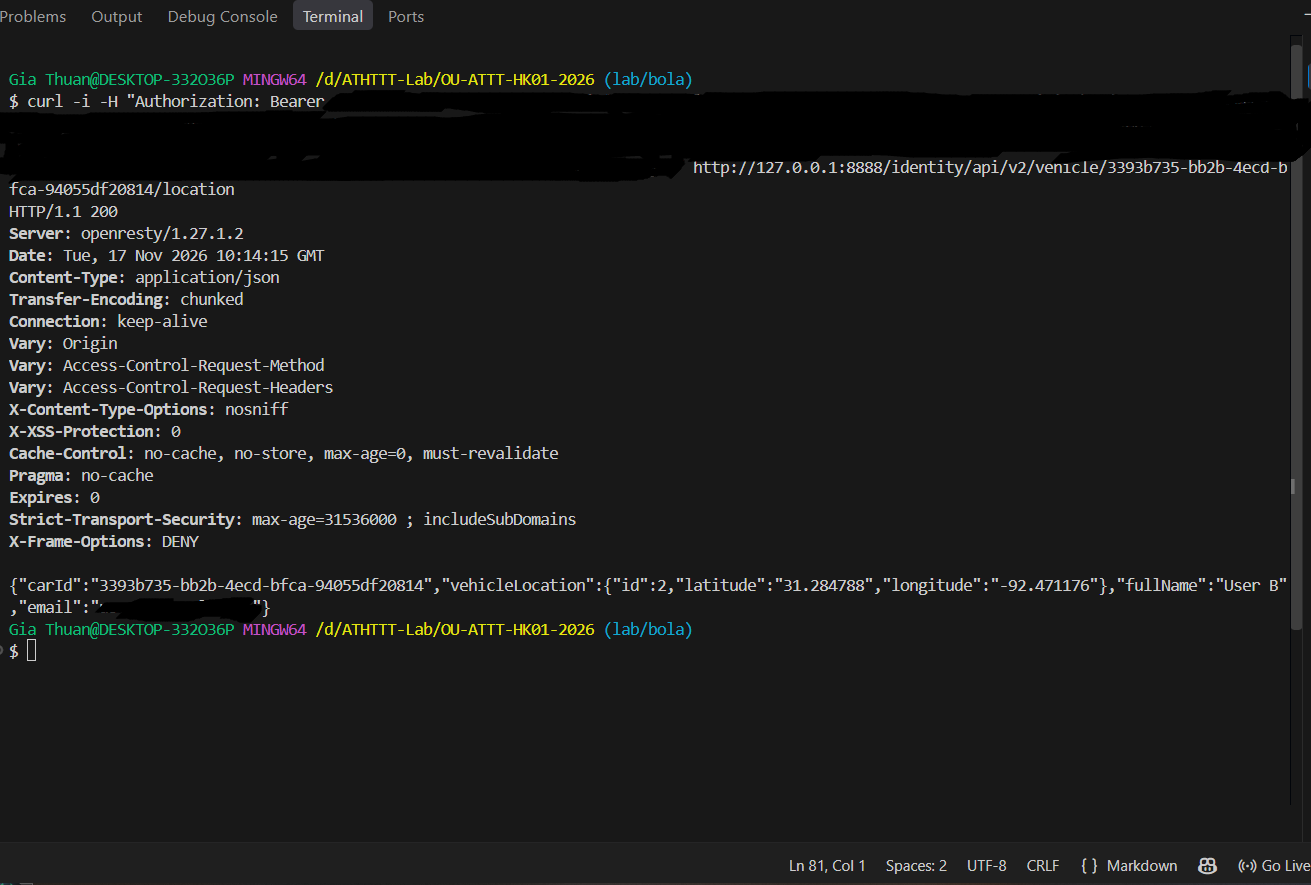
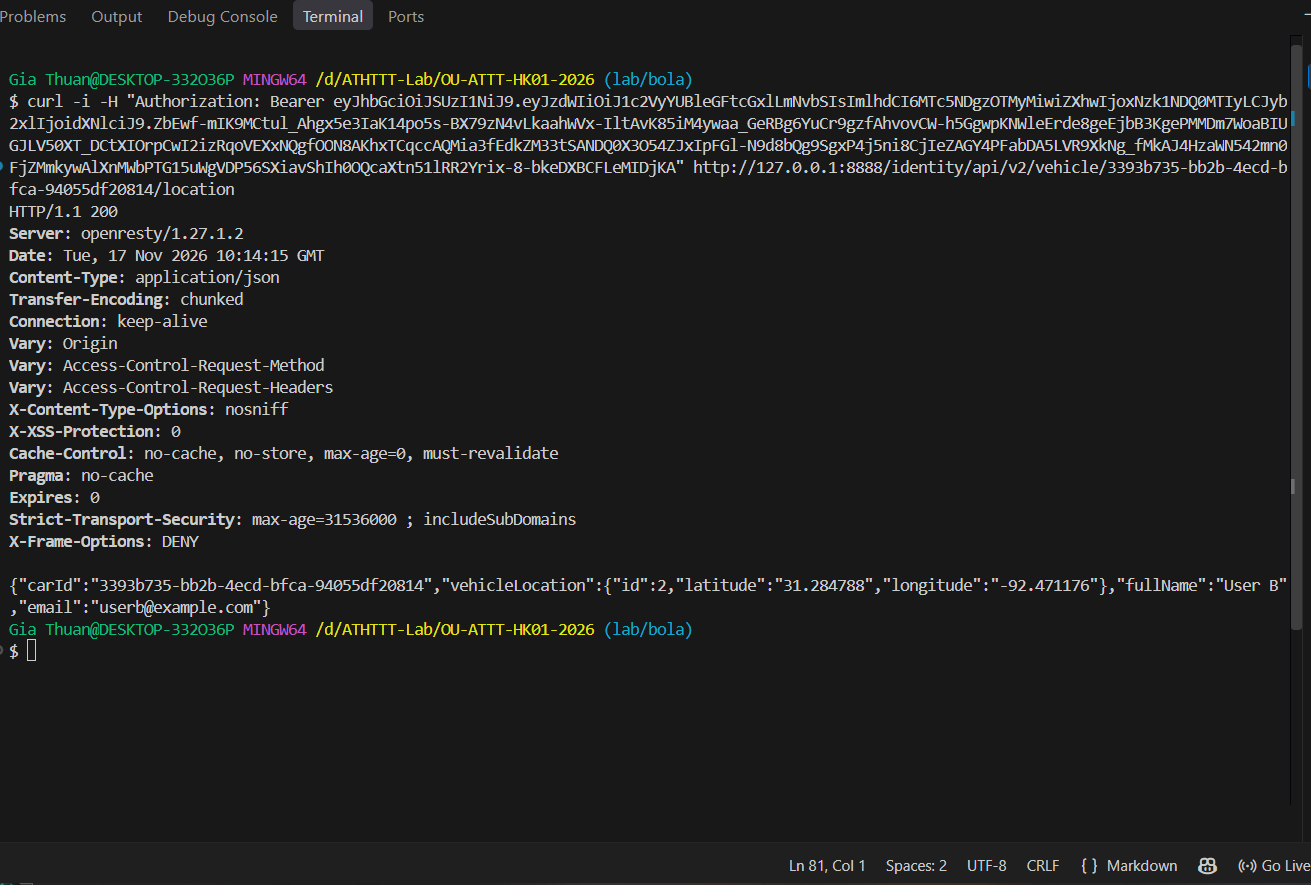
Update REPORT.md and 4 pictures (#23)

Changed region(s): [[0.0, 0.0915, 1.0, 0.2136], [0.061, 0.6712, 0.2136, 0.7017]]

diff --git a/labs/01-bola/REPORT.md b/labs/01-bola/REPORT.md
@@ -1,44 +1,74 @@
-# LAB-01 — Báo cáo BOLA
+# LAB-01: Broken Object Level Authorization (BOLA)
+
+> Khảo sát, khai thác và kiểm thử tự động lỗ hổng truy cập trái phép thông tin vị trí phương tiện trên OWASP crAPI
+
+| Thành phần | Thông tin chi tiết |
+|---|---|
+| **Danh mục OWASP** | API1:2023 — Broken Object Level Authorization (BOLA) |
+| **Thử thách crAPI** | Challenge #1 — Truy cập trái phép thông tin/vị trí phương tiện của người dùng khác |
+| **Người thực hiện** | Gia Thuận |
+| **Phiên bản / Nhánh** | Git commit `700f03d12a392d9e408260b4beae72ed02a4a1a4` (nhánh `lab/bola`) |
+
+---
 
 ## 1. Mục tiêu và phạm vi
 
-- **OWASP API Security category:** API1:2023 — Broken Object Level Authorization (BOLA).
-- **crAPI challenge:** Challenge #1 — Truy cập trái phép thông tin/vị trí phương tiện của người dùng khác thông qua định danh đối tượng (`vehicle_id`).
-- **Tác động cần kiểm chứng:** Kiểm chứng khả năng một người dùng đã xác thực hợp lệ (User A) có thể truy vấn và đọc dữ liệu tọa độ GPS cùng thông tin cá nhân gắn với phương tiện thuộc sở hữu của người dùng khác (User B) bằng cách thay đổi tham số `{vehicle_id}` trên endpoint quản lý vị trí xe trong môi trường lab cục bộ.
+- **OWASP API Security:** API1:2023 — Broken Object Level Authorization (BOLA).
+- **crAPI Challenge:** Challenge #1 — Truy cập trái phép thông tin và tọa độ vị trí phương tiện của người dùng khác thông qua định danh đối tượng (`vehicle_id`).
+- **Mục tiêu:** Kiểm chứng khả năng một người dùng đã xác thực hợp lệ (User A) có thể trực tiếp gọi API truy vấn tọa độ vị trí GPS cùng thông tin cá nhân gắn với phương tiện thuộc sở hữu của người dùng khác (User B) bằng cách thay đổi tham số đường dẫn `{vehicle_id}` trong môi trường lab cục bộ.
+- **Giới hạn:** Thực nghiệm trên 02 tài khoản thử nghiệm độc lập (User A và User B) trong môi trường crAPI local; phạm vi tập trung vào hành vi đọc trái phép dữ liệu (unauthorized read) trên endpoint vị trí phương tiện, chưa kiểm thử các thao tác ghi/điều khiển xe hoặc hệ thống sau khi áp dụng bản vá.
 
 ## 2. Lý thuyết
 
-- **Khái niệm:** Broken Object Level Authorization (BOLA) là lỗ hổng xảy ra khi một API nhận định danh đối tượng (Object ID) do phía client truyền vào (qua path parameter, query string hoặc request body) nhưng không kiểm tra xem người dùng đang thực hiện yêu cầu có quyền sở hữu hoặc quyền truy cập đối với đối tượng cụ thể đó hay không.
+Broken Object Level Authorization (BOLA) là lỗ hổng kiểm soát truy cập xảy ra khi một API tiếp nhận định danh đối tượng (Object ID) do phía client truyền vào (thông qua tham số đường dẫn, chuỗi truy vấn hoặc nội dung yêu cầu) nhưng không kiểm tra xem người dùng đang thực hiện yêu cầu có quyền sở hữu hoặc quyền truy cập đối với đối tượng cụ thể đó hay không.
+
+Trong OWASP API Security Top 10:2023, lỗ hổng này được xếp ở vị trí số một (**API1:2023**). Việc người dùng gửi kèm một mã xác thực (JWT token) hợp lệ chỉ chứng minh danh tính của người gọi (Authentication), hoàn toàn không đồng nghĩa với việc người đó được phép truy xuất mọi bản ghi trong hệ thống (Authorization).
+
 - **Nguyên nhân thường gặp:**
-  - Lập trình viên chỉ kiểm tra bước xác thực (Authentication — xác minh JWT token hoặc session hợp lệ) mà bỏ qua bước kiểm tra phân quyền ở mức đối tượng (Object-level Authorization).
-  - Truy vấn trực tiếp bản ghi trong cơ sở dữ liệu chỉ dựa trên `object_id` do client cung cấp mà không ràng buộc thêm điều kiện `owner_id = current_user_id`.
-  - Việc sử dụng định danh dạng UUID nhưng để lộ công khai các UUID này ở những API khác (như bảng tin Community) tạo điều kiện cho kẻ tấn công thu thập định danh mục tiêu.
-- **Biện pháp phòng chống:**
-  - Thực thi kiểm tra quyền sở hữu ở tầng nghiệp vụ (Service/Controller) cho mọi thao tác đọc/ghi/xóa đối tượng, đối chiếu `owner_id` của tài nguyên với `user_id` được trích xuất từ JWT đã xác thực ở phía server.
-  - Truy vấn dữ liệu theo cặp điều kiện `(object_id, owner_id)` ngay tại tầng truy xuất dữ liệu (Repository/Database).
-  - Tránh trả về định danh nội bộ nhạy cảm của tài nguyên (như `vehicleid`) trong các API công khai không cần thiết.
+  - Lập trình viên chỉ kiểm tra trạng thái đăng nhập của phiên làm việc mà bỏ qua bước đối chiếu quyền sở hữu tài nguyên ở tầng nghiệp vụ (`owner_id == current_user_id`).
+  - Truy vấn trực tiếp cơ sở dữ liệu chỉ dựa trên `object_id` do client cung cấp mà không ràng buộc điều kiện định danh chủ sở hữu.
+  - Các API công khai vô tình trả về định danh nội bộ của đối tượng (như `vehicleid`), tạo điều kiện cho kẻ tấn công thu thập chuỗi UUID mục tiêu.
+- **Tác động và nguyên tắc phòng chống:** Lỗ hổng BOLA dẫn đến rò rỉ dữ liệu nhạy cảm của người dùng khác (vị trí địa lý theo thời gian thực, họ tên, địa chỉ email). Để phòng chống, máy chủ bắt buộc phải trích xuất định danh người dùng từ phiên đã xác thực ở phía server và ràng buộc quyền sở hữu trên mọi thao tác truy xuất đối tượng.
 
 ## 3. Môi trường thực nghiệm
 
-- **Git commit hoặc phiên bản crAPI:** `700f03d12a392d9e408260b4beae72ed02a4a1a4` (nhánh làm việc: `lab/bola`).
-- **Công cụ, phiên bản:**
-  - Hệ điều hành & ảo hóa: Windows 10 (64-bit), Docker Desktop (WSL 2 backend), chế độ `CRAPI_MINIMAL=1` (`crapi-web`, `crapi-workshop`, `mailhog`, `mongodb`, `postgresdb`).
-  - Trình duyệt & CLI: Google Chrome DevTools (tab Network), Git Bash (`curl`).
-  - Môi trường kiểm thử tự động: `Python 3.12.3`, `pytest 9.2.0`, `httpx 0.28.1`, `python-dotenv 1.2.4`.
-- **Tài khoản thử nghiệm/điều kiện ban đầu (không ghi credentials):**
-  - **User A (tài khoản kiểm thử truy vấn chéo):** Đăng ký cục bộ trên crAPI, kích hoạt thành công 01 phương tiện riêng qua mã VIN và Pincode nhận từ MailHog (UUID xe của User A: `22a84d75-033d-46b6-9d9f-8a92cf98ffb6`).
-  - **User B (tài khoản sở hữu tài nguyên mục tiêu):** Đăng ký độc lập cục bộ trên crAPI, kích hoạt 01 phương tiện riêng qua MailHog (UUID xe của User B: `3393b735-bb2b-4ecd-bfca-94055df20814`) và đăng 01 bài viết công khai (`"Test post B"`) trên mục Community.
+Toàn bộ quá trình khảo sát, kiểm thử thủ công và chạy kiểm thử tự động được thực hiện trên hạ tầng cô lập cục bộ với các thông số ghi nhận trong bảng dưới đây:
+
+| Thành phần | Cấu hình / Kết quả quan sát |
+|---|---|
+| **Ứng dụng** | OWASP crAPI (chế độ tối giản `CRAPI_MINIMAL=1`: `crapi-web`, `crapi-workshop`, `mailhog`, `mongodb`, `postgresdb`) |
+| **URL cục bộ** | `http://127.0.0.1:8888` (Web/API) và `http://127.0.0.1:8025` (MailHog) |
+| **Git commit crAPI** | `700f03d12a392d9e408260b4beae72ed02a4a1a4` (nhánh làm việc: `lab/bola`) |
+| **Hệ điều hành & Ảo hóa** | Windows 10 (64-bit), Docker Desktop (WSL 2 backend) |
+| **Công cụ khảo sát** | Google Chrome DevTools (tab Network — Fetch/XHR), Git Bash (`curl`) |
+| **Kiểm thử tự động** | Python 3.12.3, `pytest` 9.2.0, `httpx` 0.28.1, `python-dotenv` 1.2.4 |
+| **Tài khoản User A** | Tài khoản thử nghiệm truy vấn chéo; đã kích hoạt 01 phương tiện riêng qua MailHog (UUID xe: `22a84d75-033d-46b6-9d9f-8a92cf98ffb6`) |
+| **Tài khoản User B** | Tài khoản chủ sở hữu mục tiêu; đã kích hoạt 01 phương tiện riêng qua MailHog (UUID xe: `3393b735-bb2b-4ecd-bfca-94055df20814`) và đăng 01 bài viết công khai (`"Test post B"`) trên Community |
 
 ## 4. Khảo sát chức năng bình thường
 
-- **Mục đích nghiệp vụ của API:** Cho phép người dùng đã đăng nhập xem danh sách phương tiện thuộc sở hữu của mình và cập nhật/truy vấn tọa độ vị trí GPS hiện tại của phương tiện trên bản đồ Dashboard.
-- **Endpoint và method liên quan:**
-  - `GET /identity/api/v2/vehicle/vehicles` — Lấy danh sách phương tiện gắn với tài khoản đang đăng nhập.
-  - `GET /identity/api/v2/vehicle/{vehicle_id}/location` — Truy vấn tọa độ GPS (`latitude`, `longitude`) và thông tin định danh của phương tiện theo `{vehicle_id}`.
-- **Cơ chế xác thực & tham số đầu vào:**
-  - Client gửi kèm JWT access token trong HTTP Request Header: `Authorization: Bearer <JWT_TOKEN>`.
-  - Tham số đường dẫn (Path parameter): `{vehicle_id}` là chuỗi định danh UUID của phương tiện (ví dụ với User A: `22a84d75-033d-46b6-9d9f-8a92cf98ffb6`).
-- **Request/response hợp lệ:** Response hợp lệ (HTTP `200 OK`) khi User A truy vấn xe của chính mình:
+### 4.1. Mục đích nghiệp vụ và các endpoint liên quan
+
+Chức năng quản lý phương tiện trên crAPI cho phép người dùng đã đăng nhập xem danh sách xe thuộc sở hữu cá nhân và truy vấn tọa độ GPS hiện tại của xe trên bản đồ Dashboard. Các endpoint chính tham gia vào luồng nghiệp vụ gồm:
+
+- `GET /identity/api/v2/vehicle/vehicles` — Lấy danh sách phương tiện gắn với tài khoản đang đăng nhập.
+- `GET /identity/api/v2/vehicle/{vehicle_id}/location` — Truy vấn tọa độ GPS (`latitude`, `longitude`) và thông tin chủ sở hữu của phương tiện theo định danh UUID `{vehicle_id}`.
+- `GET /community/api/v2/community/posts/recent` — Lấy danh sách bài viết công khai trên diễn đàn Community (endpoint gián tiếp làm lộ định danh xe của tác giả bài viết).
+
+Client gửi kèm mã thông báo xác thực trong HTTP Request Header theo chuẩn `Authorization: Bearer <JWT_TOKEN>` cùng tham số đường dẫn `{vehicle_id}`.
+
+### 4.2. Truy vấn thông tin phương tiện hợp lệ của chính chủ (User A)
+
+Khi User A truy cập Dashboard và tải vị trí phương tiện thuộc sở hữu của chính mình, trình duyệt gửi yêu cầu hợp lệ tới máy chủ:
+
+```http
+GET /identity/api/v2/vehicle/22a84d75-033d-46b6-9d9f-8a92cf98ffb6/location HTTP/1.1
+Host: 127.0.0.1:8888
+Authorization: Bearer <REDACTED_TOKEN_USER_A>
+```
+
+Phản hồi thực tế từ máy chủ: **`HTTP/1.1 200 OK`**.
+
 ```json
 {
   "carId": "22a84d75-033d-46b6-9d9f-8a92cf98ffb6",
@@ -51,76 +81,146 @@
   "email": "<REDACTED_EMAIL>"
 }
 ```
-## 5. Phương pháp kiểm thử
 
-1. **Các bước khởi tạo dữ liệu:**
-   - Khởi động môi trường crAPI cục bộ tại `http://127.0.0.1:8888` và MailHog tại `http://127.0.0.1:8025`.
-   - Tạo lần lượt 02 tài khoản độc lập (User A và User B), lấy cặp mã VIN và Pincode từ MailHog để kích hoạt phương tiện riêng cho từng tài khoản.
-   - Sử dụng phiên đăng nhập của User B đăng một bài viết mới trên diễn đàn **Community** để tạo dữ liệu công khai.
-2. **Các bước kiểm thử có kiểm soát trong Lab:**
-   - Đăng nhập bằng **User A**, mở Chrome DevTools $\rightarrow$ **Network** $\rightarrow$ **Fetch/XHR** và truy cập mục **Community**.
-   - Quan sát gói tin `GET /community/api/v2/community/posts/recent`, ghi nhận chuỗi `vehicleid` của User B (`3393b735-bb2b-4ecd-bfca-94055df20814`) bị trả về công khai trong đối tượng `author` của bài viết.
-   - Sử dụng `curl` gửi yêu cầu `GET /identity/api/v2/vehicle/3393b735-bb2b-4ecd-bfca-94055df20814/location` với header `Authorization: Bearer <TOKEN_CUA_USER_A>`.
-3. **Dấu hiệu để xác nhận hành vi sai quyền/bất thường:**
-   - Về mặt chính sách bảo mật chuẩn, máy chủ phải từ chối yêu cầu truy cập chéo đối tượng bằng mã trạng thái HTTP `401`, `403` hoặc `404`.
-   - Dấu hiệu xác nhận tồn tại lỗ hổng BOLA: Máy chủ trả về mã **`HTTP/1.1 200`** cùng nội dung JSON chứa tọa độ GPS, tên và địa chỉ email của User B cho phiên của User A.
-4. **Cách chạy lại bằng test Python:**
-   - Đảm bảo stack Docker của crAPI đang hoạt động ở trạng thái `healthy`, cài đặt thư viện từ `requirements.txt` và chạy lệnh: `pytest tests/security/test_bola.py -v`.
+### 4.3. Chính sách phân quyền kỳ vọng
 
-## 6. Bằng chứng
+Theo nguyên tắc thiết kế bảo mật chuẩn, endpoint `/identity/api/v2/vehicle/{vehicle_id}/location` chỉ được phép trả về dữ liệu khi `{vehicle_id}` thuộc quyền sở hữu của tài khoản tương ứng với JWT token trong header `Authorization`. Mọi yêu cầu truy vấn tới `{vehicle_id}` của người dùng khác bắt buộc phải bị từ chối bằng mã trạng thái HTTP `401`, `403` hoặc `404`.
 
-Toàn bộ ảnh bằng chứng đã được làm sạch (che kín chuỗi JWT token và địa chỉ email) và lưu trong thư mục `labs/01-bola/evidence/`:
+## 5. Phương pháp kiểm thử: TC-01
 
-1. **[`evidence/01-community-vehicleid-exposure.png`](evidence/01-community-vehicleid-exposure.png):** Kết quả response từ endpoint `GET /community/api/v2/community/posts/recent` khi đăng nhập bằng User A, cho thấy API bảng tin công khai trả về trực tiếp trường `"vehicleid": "3393b735-bb2b-4ecd-bfca-94055df20814"` trong thông tin tác giả bài viết của User B.
-2. **[`evidence/02-bola-unauthorized-vehicle-read.png`](evidence/02-bola-unauthorized-vehicle-read.png):** Kết quả kiểm chứng bằng `curl` khi gửi yêu cầu `GET /identity/api/v2/vehicle/3393b735-bb2b-4ecd-bfca-94055df20814/location` kèm token xác thực của User A; máy chủ phản hồi mã `HTTP/1.1 200` và trả về đầy đủ dữ liệu tọa độ GPS (`latitude`, `longitude`), `fullName` và `email` của User B.
+### Bước 1: Khởi tạo tài khoản thử nghiệm và dữ liệu ban đầu
 
-## 7. Phân tích nguyên nhân
+- Khởi động stack Docker crAPI cục bộ tại `http://127.0.0.1:8888` và hộp thư thử nghiệm MailHog tại `http://127.0.0.1:8025`.
+- Đăng ký lần lượt 02 tài khoản độc lập (**User A** và **User B**), truy cập MailHog lấy cặp mã VIN và Pincode để kích hoạt phương tiện riêng cho từng tài khoản.
+- Sử dụng phiên đăng nhập của **User B** đăng một bài viết công khai với nội dung `"Test post B"` trên diễn đàn **Community**.
 
-- **Điểm kiểm soát bảo mật bị thiếu/sai:**
-  - Tại endpoint `GET /identity/api/v2/vehicle/{vehicle_id}/location`, dịch vụ `identity-service` chỉ xác thực chữ ký và thời hạn của JWT token (kiểm tra người gọi đã đăng nhập hay chưa) mà hoàn toàn không đối chiếu quyền sở hữu giữa `user_id` trong JWT với chủ sở hữu của `{vehicle_id}` được truyền trên URL.
-  - Đồng thời, endpoint `GET /community/api/v2/community/posts/recent` của `community-service` trả về trường định danh `vehicleid` của tác giả bài viết ra giao diện công khai, giúp bất kỳ người dùng nào cũng có thể thu thập được định danh xe của người khác.
-- **Lớp cần khắc phục (API/Service/Database):**
-  - **Tầng Service / Controller (`identity-service`):** Bắt buộc bổ sung logic xác minh quyền sở hữu tài nguyên trước khi trả dữ liệu vị trí phương tiện.
-  - **Tầng Database / Repository:** Truy vấn thông tin phương tiện theo điều kiện kết hợp cả định danh xe và định danh chủ sở hữu (`WHERE uuid = :vehicle_id AND owner_id = :current_user_id`).
-  - **Tầng DTO / Serializer (`community-service`):** Loại bỏ trường `vehicleid` khỏi payload phản hồi của API bảng tin công khai.
-- **Phạm vi tác động đã chứng minh:**
-  - Người dùng đã xác thực bất kỳ có thể đọc trái phép tọa độ vị trí GPS (`latitude`, `longitude`), tên hiển thị (`fullName`) và địa chỉ `email` gắn với phương tiện của người dùng khác.
-- **Những điều chưa chứng minh:**
-  - Chưa kiểm thử các thao tác ghi/sửa/xóa trái phép trên tài nguyên phương tiện của người khác (như thay đổi trạng thái hoặc lệnh điều khiển xe) do phạm vi Lab 01 giới hạn ở luồng truy vấn đọc thông tin vị trí xe.
+**Mục đích:** Thiết lập hai chủ thể người dùng tách biệt với tài nguyên phương tiện độc lập và tạo điểm tiếp xúc dữ liệu công khai trên hệ thống.
 
-## 8. Biện pháp khắc phục
+**Hình 1: Giao diện Dashboard crAPI xác nhận tài khoản thử nghiệm đã kích hoạt phương tiện thành công**
 
-- **Cách sửa được đề xuất:**
-  1. **Kiểm tra quyền sở hữu ở tầng nghiệp vụ (`identity-service`):** Khi xử lý yêu cầu `GET /identity/api/v2/vehicle/{vehicle_id}/location`, trích xuất định danh người dùng hiện tại (`currentUserId`) từ `SecurityContext` / JWT đã xác thực, sau đó kiểm tra bản ghi `Vehicle` tương ứng với `vehicle_id` có thuộc về `currentUserId` hay không. Nếu không khớp, trả về ngay mã `403 Forbidden` (hoặc `404 Not Found` để tránh lộ sự tồn tại của tài nguyên).
-  2. **Ràng buộc truy vấn ở tầng dữ liệu:** Thay thế các truy vấn chỉ tìm theo `vehicle_id` bằng truy vấn gắn liền chủ sở hữu (ví dụ `findByUuidAndOwnerId(vehicleId, currentUserId)`).
-  3. **Giảm thiểu dữ liệu lộ lọt (Data Minimization) ở `community-service`:** Lược bỏ trường `vehicleid` khỏi đối tượng `author` khi tuần tự hóa dữ liệu bài viết trả về cho endpoint `/community/api/v2/community/posts/recent`.
-- **Kiểm thử lại sau sửa:**
-  - Sau khi áp dụng bản vá và khởi động lại dịch vụ `identity-service`, chạy lại lệnh `pytest tests/security/test_bola.py -v`.
-  - Bản vá đạt yêu cầu khi endpoint `GET /identity/api/v2/vehicle/{vehicle_id_B}/location` (gọi bằng token của User A) trả về mã HTTP `403` hoặc `404`, không chứa dữ liệu vị trí/email của User B, và bài kiểm thử tự động chuyển từ `FAILED` sang `PASSED`.
+![Giao diện Dashboard crAPI xác nhận tài khoản thử nghiệm đã kích hoạt phương tiện thành công](evidence/00-user-setup-dashboard.png)
 
-## 9. Automated security test
+### Bước 2: Khảo sát luồng công khai và thu thập định danh đối tượng
 
-- **File Python test:** `tests/security/test_bola.py` (hàm `test_user_cannot_read_another_users_vehicle`, sử dụng fixture `api_client` trong `tests/conftest.py` trỏ tới `http://127.0.0.1:8888`).
+- Đăng nhập bằng tài khoản **User A**, mở Chrome DevTools → tab **Network** → bộ lọc **Fetch/XHR** và truy cập mục **Community**.
+- Quan sát gói tin `GET /community/api/v2/community/posts/recent`, ghi nhận trường `vehicleid` của User B (`3393b735-bb2b-4ecd-bfca-94055df20814`) bị trả về công khai trong đối tượng `author` của bài viết.
+
+**Mục đích:** Chứng minh kẻ tấn công có thể thu thập hợp lệ định danh UUID phương tiện của người dùng khác thông qua API bảng tin công khai.
+
+**Hình 2: Response từ API Community công khai để lộ `vehicleid` của User B**
+
+![Response từ API Community công khai để lộ vehicleid của User B](evidence/01-community-vehicleid-exposure.png)
+
+### Bước 3: Xác minh baseline truy cập hợp lệ trên phương tiện của User A
+
+- Sử dụng JWT token của User A gửi yêu cầu `GET` tới đúng UUID phương tiện của User A (`22a84d75-033d-46b6-9d9f-8a92cf98ffb6`).
+- Máy chủ phản hồi `HTTP 200 OK` với tọa độ và thông tin của User A, xác nhận token của User A đang hoạt động bình thường.
+
+**Mục đích:** Thiết lập mốc đối chiếu chuẩn trước khi thay đổi tham số định danh sang đối tượng của người dùng khác.
+
+### Bước 4: Thực hiện truy vấn chéo đối tượng bằng token của User A
+
+Sử dụng công cụ dòng lệnh `curl` gửi yêu cầu truy vấn vị trí phương tiện của **User B** nhưng đính kèm mã xác thực của **User A**:
+
+```http
+GET /identity/api/v2/vehicle/3393b735-bb2b-4ecd-bfca-94055df20814/location HTTP/1.1
+Host: 127.0.0.1:8888
+Authorization: Bearer <REDACTED_TOKEN_USER_A>
+```
+
+**Điểm bất thường cần kiểm tra:** Client sử dụng phiên đăng nhập của User A để yêu cầu đọc dữ liệu của một `vehicle_id` không thuộc quyền sở hữu của mình.
+
+**Hình 3: Kết quả kiểm chứng qua `curl` cho thấy User A đọc được tọa độ GPS và email của User B**
+
+![Kết quả kiểm chứng qua curl cho thấy User A đọc được tọa độ GPS và email của User B](evidence/02-bola-unauthorized-vehicle-read.png)
+
+### Bước 5: Quan sát và phân tích phản hồi bất thường
+
+Thay vì từ chối yêu cầu với mã lỗi phân quyền, máy chủ phản hồi trực tiếp **`HTTP/1.1 200 OK`** kèm toàn bộ dữ liệu nhạy cảm của User B:
+
+```json
+{
+  "carId": "3393b735-bb2b-4ecd-bfca-94055df20814",
+  "vehicleLocation": {
+    "id": 2,
+    "latitude": "31.284788",
+    "longitude": "-92.471176"
+  },
+  "fullName": "User B",
+  "email": "<REDACTED_EMAIL>"
+}
+```
+
+### Bước 6: Đối chiếu kết quả kiểm thử
+
+Bảng dưới đây tổng hợp sự đối chiếu giữa hành vi truy vấn chính chủ và hành vi truy vấn chéo đối tượng ghi nhận trong thực nghiệm:
+
+| Tiêu chí | Truy vấn chính chủ | Truy vấn chéo (BOLA) | Diễn giải |
+|---|---|---|---|
+| **Token xác thực** | JWT của User A | JWT của User A | Cùng một phiên đăng nhập hợp lệ |
+| **Target `vehicle_id`** | `22a84d75-...-ffb6` | `3393b735-...-0814` | Đổi sang UUID xe thuộc User B |
+| **HTTP Status kỳ vọng** | `200 OK` | `401 / 403 / 404` | Chính sách kiểm soát truy cập chuẩn |
+| **HTTP Status thực tế** | `200 OK` | `200 OK` | **Chấp nhận truy cập trái phép** |
+| **Dữ liệu trả về** | GPS & email User A | GPS, tên & email User B | Rò rỉ vị trí và định danh cá nhân |
+
+**Kết luận từ thực nghiệm:** Dữ liệu thực nghiệm khẳng định chắc chắn sự tồn tại của lỗ hổng Broken Object Level Authorization (BOLA) trên endpoint truy vấn vị trí phương tiện.
+
+## 6. Kiểm thử tự động (Automated Security Test)
+
+Để đảm bảo khả năng tái hiện và kiểm thử hồi quy tự động (regression testing) sau khi vá lỗi, nhóm đã xây dựng kịch bản kiểm thử bằng Python.
+
+- **File kiểm thử:** `tests/security/test_bola.py` (hàm `test_user_cannot_read_another_users_vehicle`, sử dụng fixture `api_client` trong `tests/conftest.py` kết nối tới `http://127.0.0.1:8888`).
 - **Tiền điều kiện:**
-  - Các container crAPI chạy cục bộ ở trạng thái `healthy`.
-  - Đã cài đặt đầy đủ các gói trong `requirements.txt` (`pytest`, `httpx`, `python-dotenv`).
-  - Hai tài khoản thử nghiệm User A và User B (cấu hình qua biến môi trường `CRAPI_USER_A_EMAIL`, `CRAPI_USER_A_PASSWORD`, `CRAPI_USER_B_EMAIL`, `CRAPI_USER_B_PASSWORD` hoặc giá trị mặc định cục bộ của lab) đã tồn tại và kích hoạt phương tiện riêng.
-- **Kết quả mong đợi trên vulnerable target:**
-  - Bài kiểm thử khẳng định chính sách an toàn `assert unauthorized_resp.status_code in {401, 403, 404}`. Trên phiên bản crAPI chưa vá lỗi, bài test sẽ kết thúc với trạng thái **`FAILED`** tại dòng `AssertionError` do server trả về mã `200` kèm dữ liệu phương tiện của User B.
-- **Kết quả thực tế:**
-  - Thực thi lệnh `pytest tests/security/test_bola.py -v` trên commit `700f03d12a392d9e408260b4beae72ed02a4a1a4` cho kết quả `1 failed in 4.05s` (đã làm sạch địa chỉ email trong log):
-    - `tests/security/test_bola.py::test_user_cannot_read_another_users_vehicle FAILED [100%]`
-    - `AssertionError: BOLA detected: expected 401/403/404 when User A reads User B's vehicle (3393b735-bb2b-4ecd-bfca-94055df20814), but got 200: {"carId":"3393b735-bb2b-4ecd-bfca-94055df20814","vehicleLocation":{"id":2,"latitude":"31.284788","longitude":"-92.471176"},"fullName":"User B","email":"<REDACTED_EMAIL>"}`
-    - `assert 200 in {401, 403, 404}`
-- **Ý nghĩa PASS/FAIL/SKIP:**
-  - **`FAILED`:** Hệ thống mục tiêu đang tồn tại lỗ hổng BOLA — máy chủ cho phép tài khoản A đọc trái phép tài nguyên phương tiện của tài khoản B (`HTTP 200`) thay vì từ chối theo chính sách phân quyền.
+  - Các container Docker của crAPI đang chạy ở trạng thái `healthy`.
+  - Đã cài đặt đầy đủ thư viện từ `requirements.txt` (`pytest`, `httpx`, `python-dotenv`).
+  - Hai tài khoản thử nghiệm User A và User B (cấu hình qua các biến môi trường `CRAPI_USER_A_EMAIL`, `CRAPI_USER_A_PASSWORD`, `CRAPI_USER_B_EMAIL`, `CRAPI_USER_B_PASSWORD` hoặc giá trị mặc định cục bộ) đã được kích hoạt phương tiện riêng.
+- **Cách thực thi và kết quả mong đợi:** Chạy lệnh `pytest tests/security/test_bola.py -v`. Bài kiểm thử khẳng định chính sách an toàn `assert unauthorized_resp.status_code in {401, 403, 404}`. Trên hệ thống crAPI chưa vá lỗi, bài test sẽ báo **`FAILED`** tại dòng kiểm tra này.
+- **Kết quả thực tế ghi nhận:** Thực thi trên commit `700f03d12a392d9e408260b4beae72ed02a4a1a4` cho kết quả `1 failed in 4.05s` (đã ẩn địa chỉ email trong log):
+
+```text
+tests/security/test_bola.py::test_user_cannot_read_another_users_vehicle FAILED [100%]
+
+AssertionError: BOLA detected: expected 401/403/404 when User A reads User B's vehicle
+(3393b735-bb2b-4ecd-bfca-94055df20814), but got 200:
+{"carId":"3393b735-bb2b-4ecd-bfca-94055df20814",
+ "vehicleLocation":{"id":2,"latitude":"31.284788","longitude":"-92.471176"},
+ "fullName":"User B","email":"<REDACTED_EMAIL>"}
+assert 200 in {401, 403, 404}
+```
+
+- **Ý nghĩa các trạng thái PASS / FAIL / SKIP:**
+  - **`FAILED`:** Hệ thống mục tiêu đang tồn tại lỗ hổng BOLA — máy chủ cho phép tài khoản A đọc trái phép tài nguyên phương tiện của tài khoản B (`HTTP 200`) thay vì từ chối.
   - **`PASSED`:** Máy chủ đã kiểm tra quyền sở hữu đối tượng đúng chuẩn và từ chối yêu cầu truy cập trái phép bằng mã trạng thái `401`, `403` hoặc `404`.
   - **`SKIP`:** Bài kiểm thử chưa được kích hoạt hoặc môi trường mục tiêu chưa sẵn sàng để chạy kiểm tra hồi quy.
 
-## 10. Kết luận và tham khảo
+**Hình 4: Kết quả chạy kiểm thử tự động `pytest` phát hiện lỗ hổng BOLA (HTTP 200)**
 
-- **Kết luận dựa trên bằng chứng:**
-  - Qua quá trình khảo sát thực nghiệm và chạy kiểm thử tự động trên crAPI (commit `700f03d12a392d9e408260b4beae72ed02a4a1a4`), đã chứng minh chắc chắn sự tồn tại của lỗ hổng **Broken Object Level Authorization (OWASP API1:2023)** tại endpoint `GET /identity/api/v2/vehicle/{vehicle_id}/location`. Kết hợp với việc `GET /community/api/v2/community/posts/recent` để lộ `vehicleid` của tác giả bài viết, bất kỳ người dùng đã đăng nhập nào cũng có thể thu thập định danh xe và truy xuất trái phép vị trí GPS cùng email của người dùng khác.
-- **Tài liệu OWASP/API Security/nguồn chính thức:**
-  - OWASP API Security Top 10 (2023) — *API1:2023 Broken Object Level Authorization*: https://owasp.org/API-Security/editions/2023/en/0xa1-broken-object-level-authorization/
-  - OWASP crAPI (Completely Ridiculous API) Official Repository & Challenges Documentation: https://github.com/OWASP/crAPI
+![Kết quả chạy kiểm thử tự động pytest phát hiện lỗ hổng BOLA (HTTP 200)](evidence/03-pytest-bola-failed.png)
+
+## 7. Phân tích nguyên nhân
+
+1. **Thiếu kiểm tra quyền sở hữu ở endpoint vị trí xe:** Tại endpoint `GET /identity/api/v2/vehicle/{vehicle_id}/location`, dịch vụ `identity-service` chỉ xác thực chữ ký và thời hạn của JWT token (kiểm tra người gọi đã đăng nhập hay chưa) mà hoàn toàn không đối chiếu quyền sở hữu giữa định danh người dùng trong JWT với chủ sở hữu của `{vehicle_id}` truyền trên URL.
+2. **Lộ định danh nội bộ qua API công khai:** Endpoint `GET /community/api/v2/community/posts/recent` của dịch vụ `community-service` tuần tự hóa và trả về trường `vehicleid` của tác giả bài viết ra giao diện công khai, giúp bất kỳ người dùng nào cũng có thể thu thập định danh xe của người khác.
+3. **Các lớp kiến trúc cần khắc phục:**
+   - *Tầng Service / Controller (`identity-service`):* Bắt buộc bổ sung bước xác minh quyền sở hữu tài nguyên trước khi trả dữ liệu vị trí phương tiện.
+   - *Tầng Database / Repository:* Truy vấn bản ghi phương tiện theo cặp điều kiện kết hợp cả định danh xe và định danh chủ sở hữu.
+   - *Tầng DTO / Serializer (`community-service`):* Loại bỏ trường `vehicleid` khỏi cấu trúc dữ liệu phản hồi của API bảng tin công khai.
+4. **Phạm vi đã chứng minh và chưa chứng minh:** Đã chứng minh người dùng bất kỳ có thể đọc trái phép tọa độ GPS (`latitude`, `longitude`), họ tên (`fullName`) và địa chỉ `email` của người dùng khác. Chưa kiểm thử các thao tác ghi/sửa/xóa trái phép trên tài nguyên phương tiện khác hoặc kết quả sau khi vá lỗi.
+
+## 8. Biện pháp khắc phục
+
+1. **Kiểm tra quyền sở hữu ở tầng nghiệp vụ (`identity-service`):** Khi tiếp nhận yêu cầu `GET /identity/api/v2/vehicle/{vehicle_id}/location`, trích xuất định danh người dùng hiện tại (`currentUserId`) từ `SecurityContext` / JWT đã xác thực phía server, sau đó đối chiếu với `owner_id` của đối tượng `Vehicle`. Nếu không trùng khớp, từ chối ngay với mã `403 Forbidden` (hoặc `404 Not Found` để tránh lộ sự tồn tại của tài nguyên).
+2. **Ràng buộc truy vấn ở tầng cơ sở dữ liệu:** Thay thế các truy vấn chỉ tìm kiếm theo `vehicle_id` bằng truy vấn gắn liền chủ sở hữu (ví dụ `findByUuidAndOwnerId(vehicleId, currentUserId)` hoặc mệnh đề `WHERE uuid = :vehicle_id AND owner_id = :current_user_id`).
+3. **Giảm thiểu dữ liệu lộ lọt (Data Minimization) ở `community-service`:** Lược bỏ trường `vehicleid` khỏi đối tượng `author` trong DTO phản hồi của endpoint `/community/api/v2/community/posts/recent`.
+4. **Kiểm thử lại sau khi sửa (Retest):** Sau khi áp dụng bản vá và khởi động lại dịch vụ `identity-service`, chạy lại lệnh `pytest tests/security/test_bola.py -v`. Bản vá đạt yêu cầu khi endpoint trả về mã HTTP `403` hoặc `404`, không rò rỉ dữ liệu vị trí/email của User B, và bài kiểm thử tự động chuyển từ `FAILED` sang `PASSED`.
+
+## 9. Kết luận và tham khảo
+
+### 9.1. Kết luận dựa trên bằng chứng
+
+Qua quá trình khảo sát thực nghiệm và chạy kiểm thử tự động trên OWASP crAPI (commit `700f03d12a392d9e408260b4beae72ed02a4a1a4`), đã chứng minh chắc chắn sự tồn tại của lỗ hổng **Broken Object Level Authorization (OWASP API1:2023)** tại endpoint `GET /identity/api/v2/vehicle/{vehicle_id}/location`. Kết hợp với việc `GET /community/api/v2/community/posts/recent` để lộ `vehicleid` của tác giả bài viết, bất kỳ người dùng đã đăng nhập nào cũng có thể thu thập định danh xe và truy xuất trái phép tọa độ GPS cùng địa chỉ email của người dùng khác.
+
+### 9.2. Tài liệu tham khảo
+
+1. OWASP API Security Top 10 (2023) — *API1:2023 Broken Object Level Authorization*: https://owasp.org/API-Security/editions/2023/en/0xa1-broken-object-level-authorization/
+2. OWASP crAPI (Completely Ridiculous API) Official Repository & Challenges Documentation: https://github.com/OWASP/crAPI
